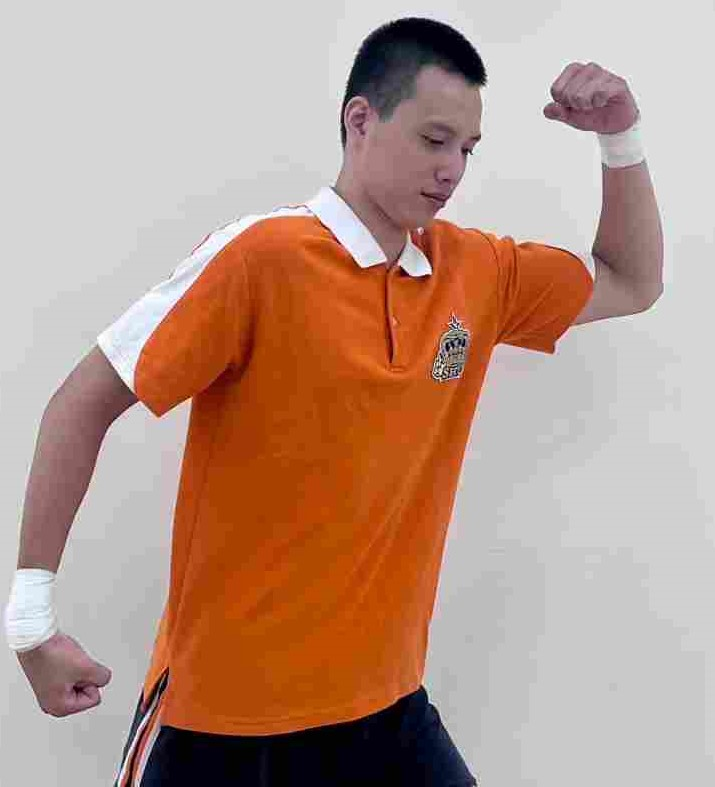
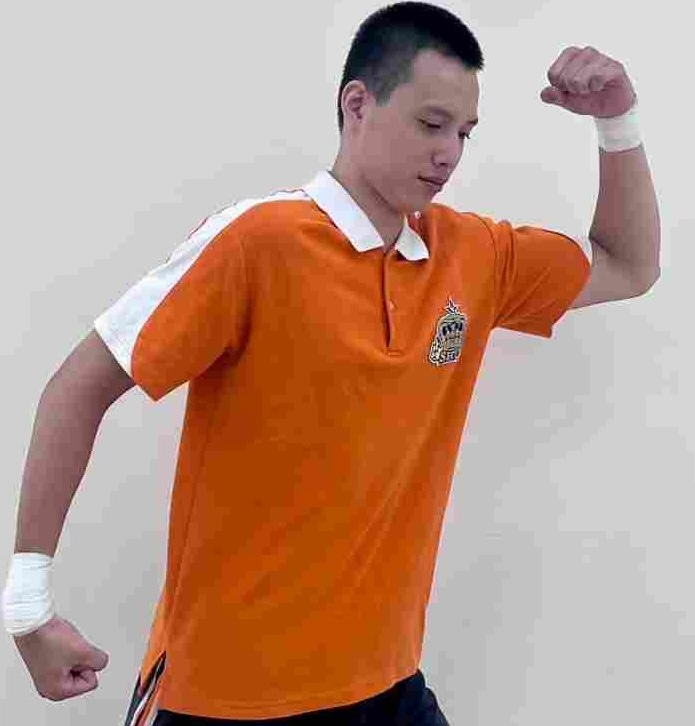
完整版

diff --git a/index.html b/index.html
@@ -49,7 +49,7 @@
                     </div>
                     <h5 class="mark4">自介</h5>
                         <div class="mark6">目前是就讀世新大學資訊傳播學系，現在大四，除了學生身分，另一個身分是本校競技啦啦隊校隊的的身分，接觸這項運動有6年的時間，在這過程中讓我知道，在每個階段有不同的關卡要去學會突破，這過程是真正能讓心境成長的時候，不管我是不適以今天這身分，那怕是學生身分也是一樣的，到了大四才會知道前面的三年所浪費了多少時間，所以要讓自己手中的武器多一點對於未來的自己才有選擇權。</div>
-                  <div class="mark7"><a href="#school"><i class="fa-solid fa-angles-down"></i></a></div>
+                  <div class="mark7"><a href="#school"><i class="fa-solid fa-arrow-down-long 10" style="color: rgb(252, 252, 252); font-size: 50px;"></i></a></div>
                     </div>
             </section>
         
@@ -316,7 +316,7 @@
             </section>
             <hr class="m-0" />
             <!-- Awards-->
-            <section class="resume-section1" id="cta">
+            <section class="resume-section" id="cta">
                 <div class="resume-section-content">
                     <h2 class="aaa10">即刻聯絡</h2>
                    <!--

diff --git a/newbt5.html b/newbt5.html
@@ -10,6 +10,19 @@
 <script src="https://cdn.jsdelivr.net/npm/bootstrap@5.1.1/dist/js/bootstrap.bundle.min.js" integrity="sha384-/bQdsTh/da6pkI1MST/rWKFNjaCP5gBSY4sEBT38Q/9RBh9AH40zEOg7Hlq2THRZ" crossorigin="anonymous"></script>
 </head>
 <body>
-    
+    <div class="container-fluid bg-success">
+    <h1>拉拉拉拉拉拉</h1>
+    <p>pppppppppppp</p>
+    </div>
+    <div class="container-fluid bg-info">
+    <div class="row">
+        <div class="col-4 bg-primary">
+            <h1>這是左邊</h1>
+        </div>
+        <div class="col-8 bg-danger">
+            <h1>這是右邊</h1>
+        </div>
+    </div>
+</div>
 </body>
 </html>

diff --git a/css/mystyles.css b/css/mystyles.css
@@ -64,6 +64,7 @@ a.alink:hover{
     padding: 10px;
     border-radius: 20px;
    color:aliceblue ;
+   width: 100%;
 }
 .mark7{
     
@@ -107,4 +108,8 @@ a.alink:hover{
 }
 .aaa10{
     color:#f28500 ;
+    text-align: center;
 }
+ .fa-solid-fa-arrow-down-long-10{
+    font-size: 50px;
+ }

diff --git a/css/styles.css b/css/styles.css
@@ -83,6 +83,8 @@
 *::before,
 *::after {
   box-sizing: border-box;
+  text-align: center;
+  font-size: 20px;
 }
 
 @media (prefers-reduced-motion: no-preference) {
